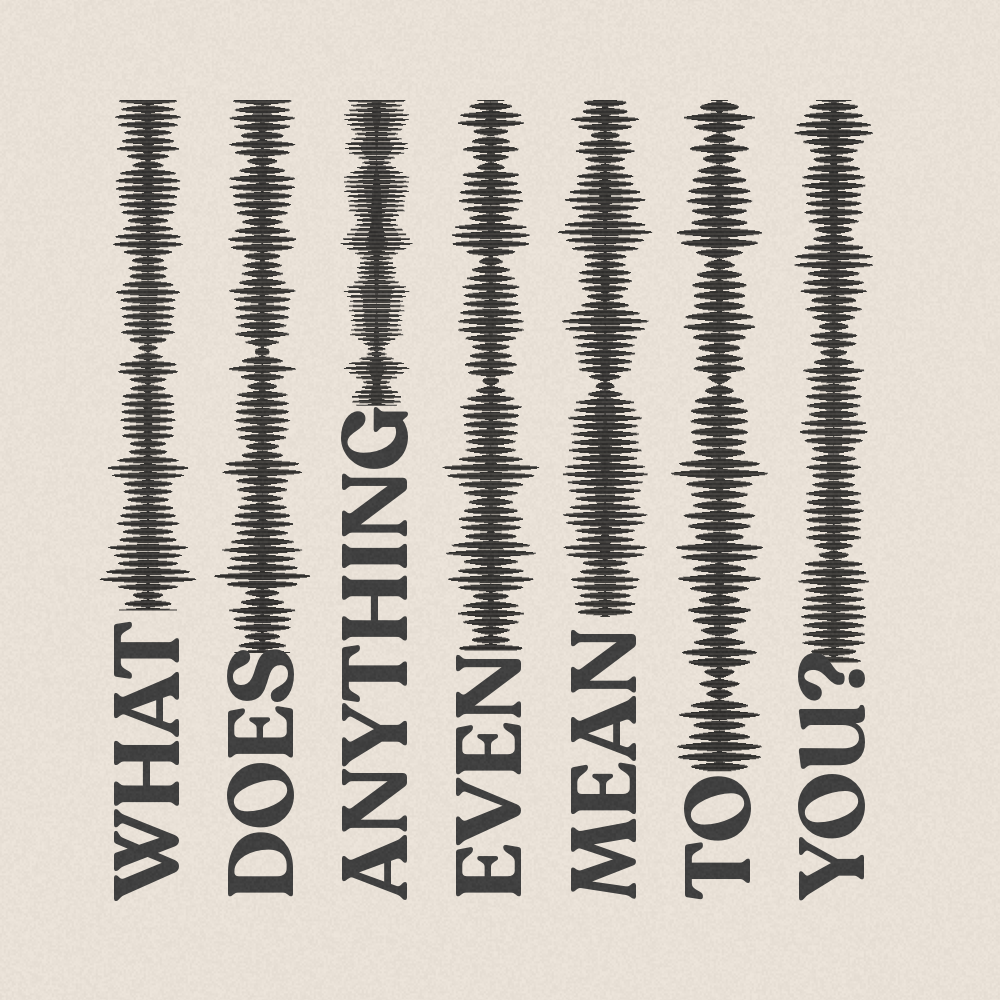
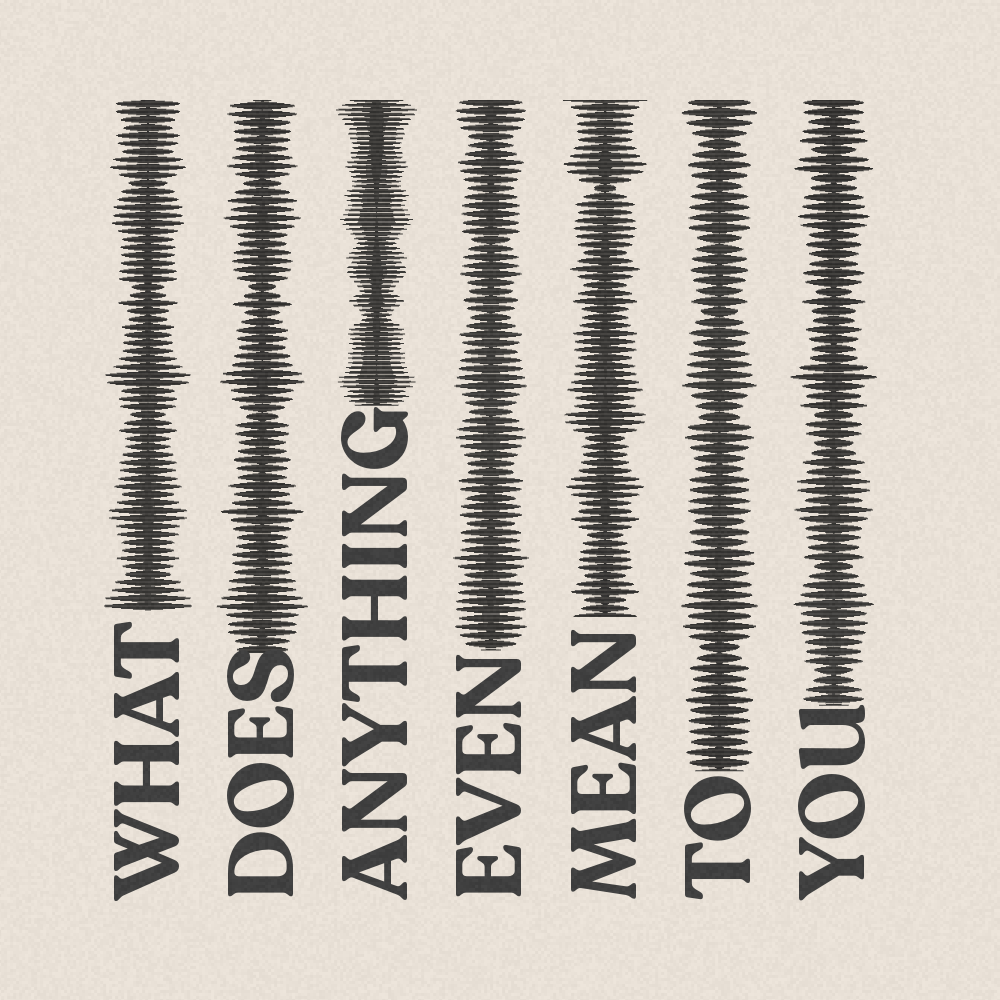
Tweaked animation, preview regenerated=

diff --git a/animations/vertical-sines-2/js/sketch.js b/animations/vertical-sines-2/js/sketch.js
@@ -15,7 +15,8 @@ class Sketch extends Engine {
 
     this._bg = new Color(246, 238, 227);
     this._max_sines_ch = 25;
-    this._lines = "WHAT DOES ANYTHING EVEN MEAN TO YOU?".split(" ");
+    this._lines = "WHAT DOES ANYTHING EVEN MEAN TO YOU".split(" ");
+    this._font = "Recoleta";
 
     this._duration = 300;
     this._recording = false;
@@ -60,7 +61,9 @@ class Sketch extends Engine {
     document.body.style.background = this._bg.rgba;
 
     this._font_loaded = false;
-    document.fonts.load("16px Recoleta").then(() => (this._font_loaded = true));
+    document.fonts
+      .load(`16px ${this._font}`)
+      .then(() => (this._font_loaded = true));
 
     this._frame_offset = this.frameCount;
     if (this._recording) {

diff --git a/animations/vertical-sines-2/js/sines.js b/animations/vertical-sines-2/js/sines.js
@@ -1,13 +1,13 @@
 import { Color } from "./lib.js";
 
 class Sine {
-  constructor(x, y, width, height) {
+  constructor(x, y, width, height, font) {
     this._x = x;
     this._y = y;
     this._width = width;
     this._height = height;
+    this._font = font;
     this._text_fill = Color.fromMonochrome(64);
-
     this._line_scl = 1;
   }
 
@@ -32,7 +32,7 @@ class Sine {
 
     // calculate the length of the text
     const ctx = document.createElement("canvas").getContext("2d");
-    ctx.font = `${this._width}px Recoleta`;
+    ctx.font = `${this._width}px ${this._font}`;
     const ex = ctx.measureText("x").width;
     this._text_width = ctx.measureText(this._text).width + ex / 8;
 
